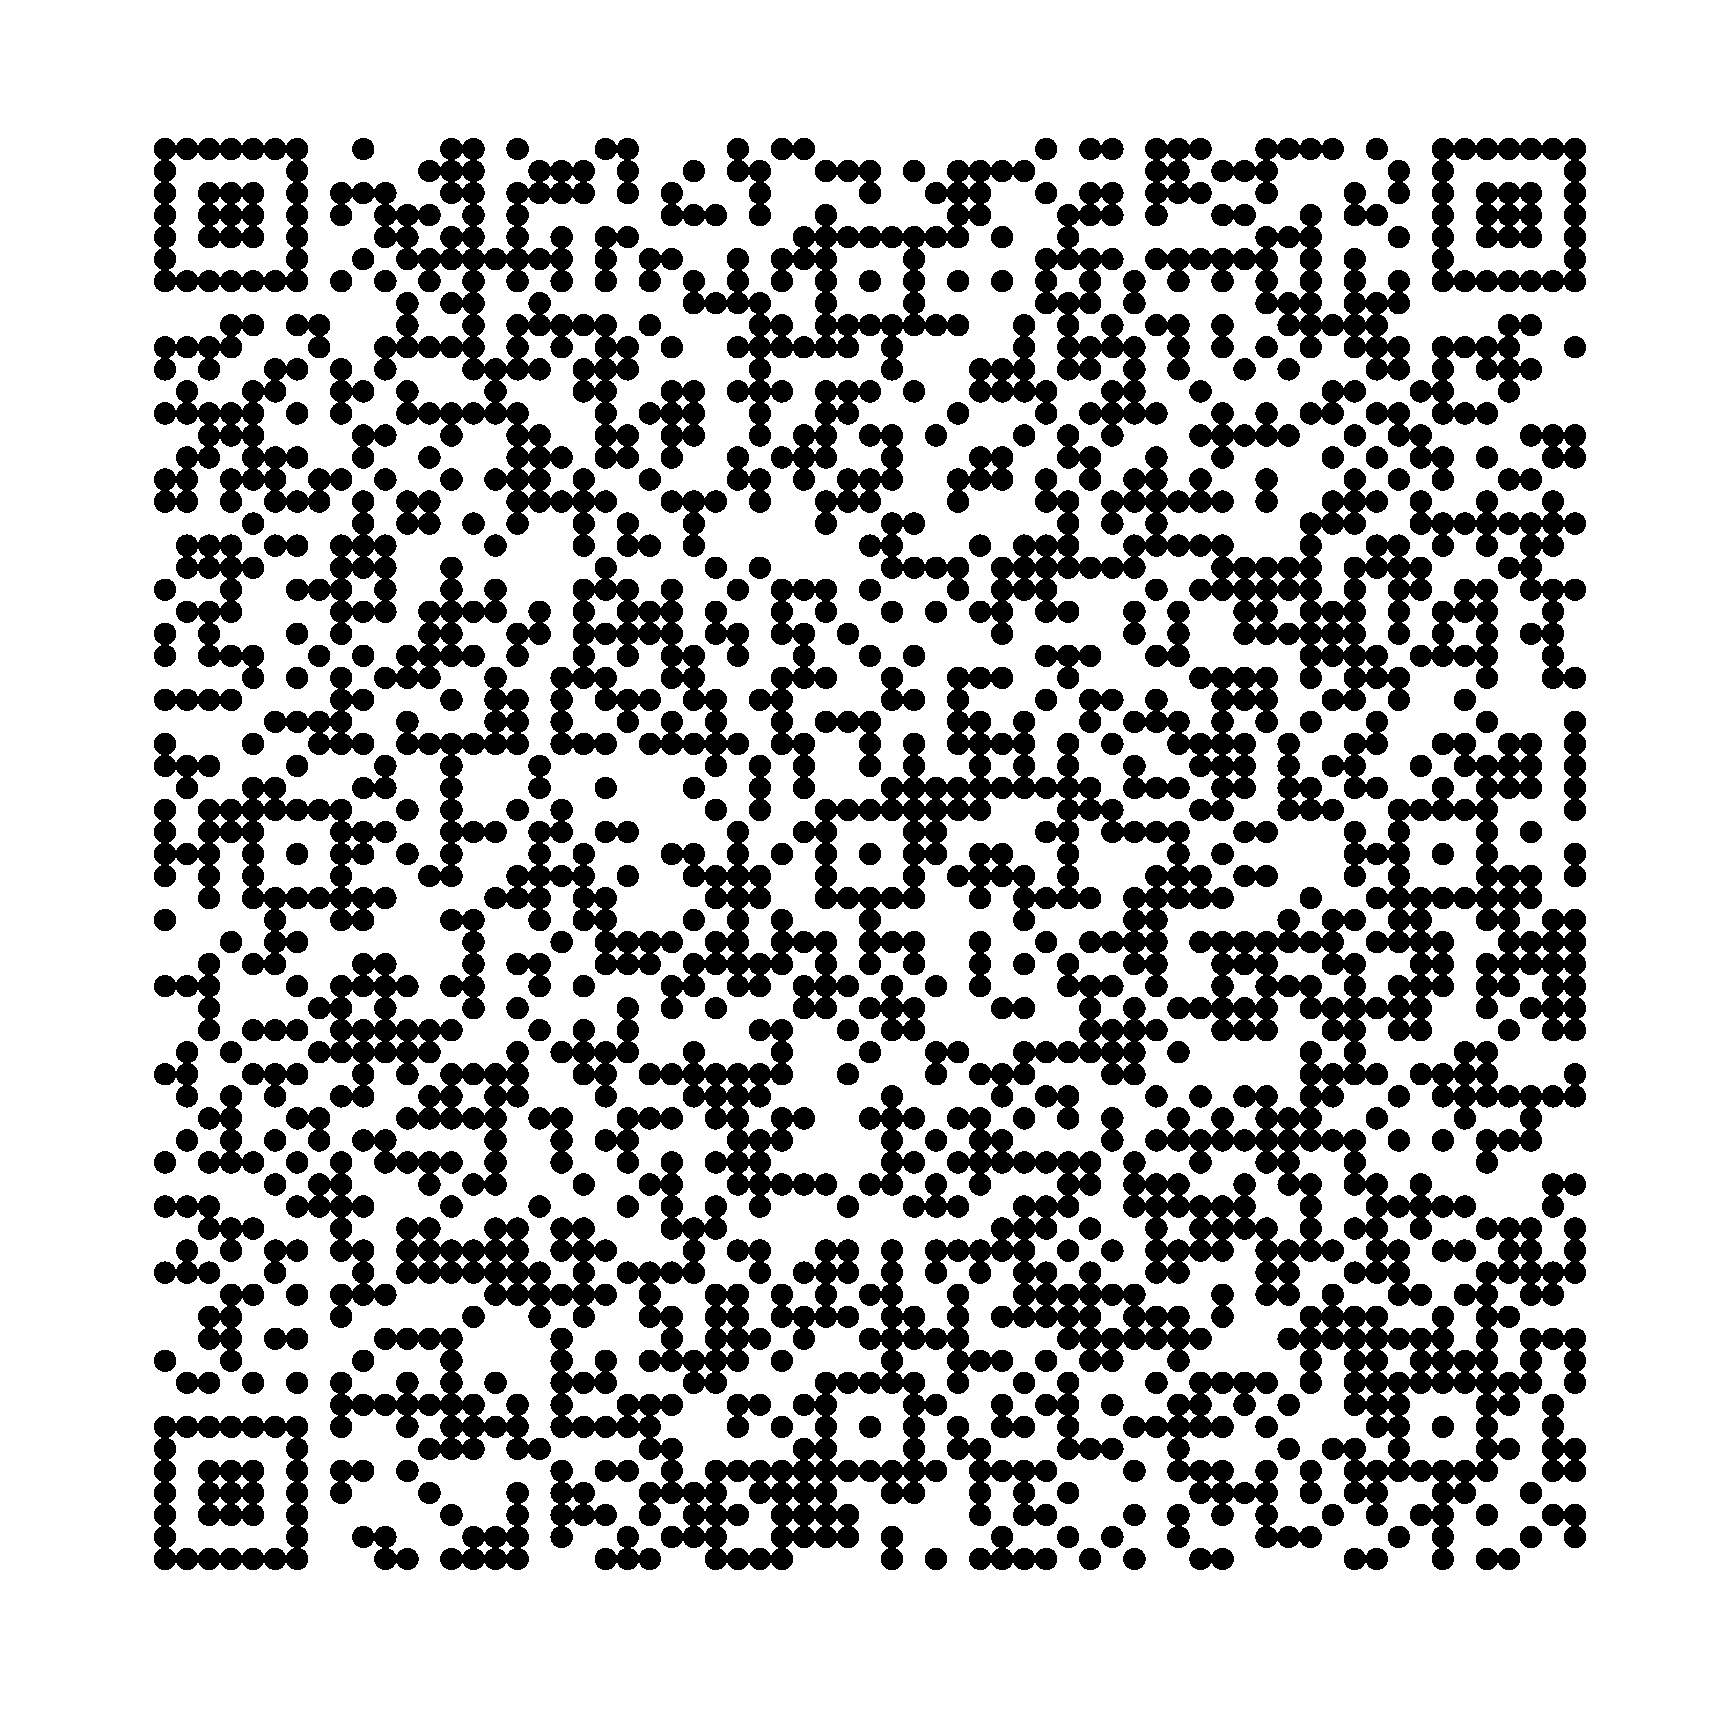
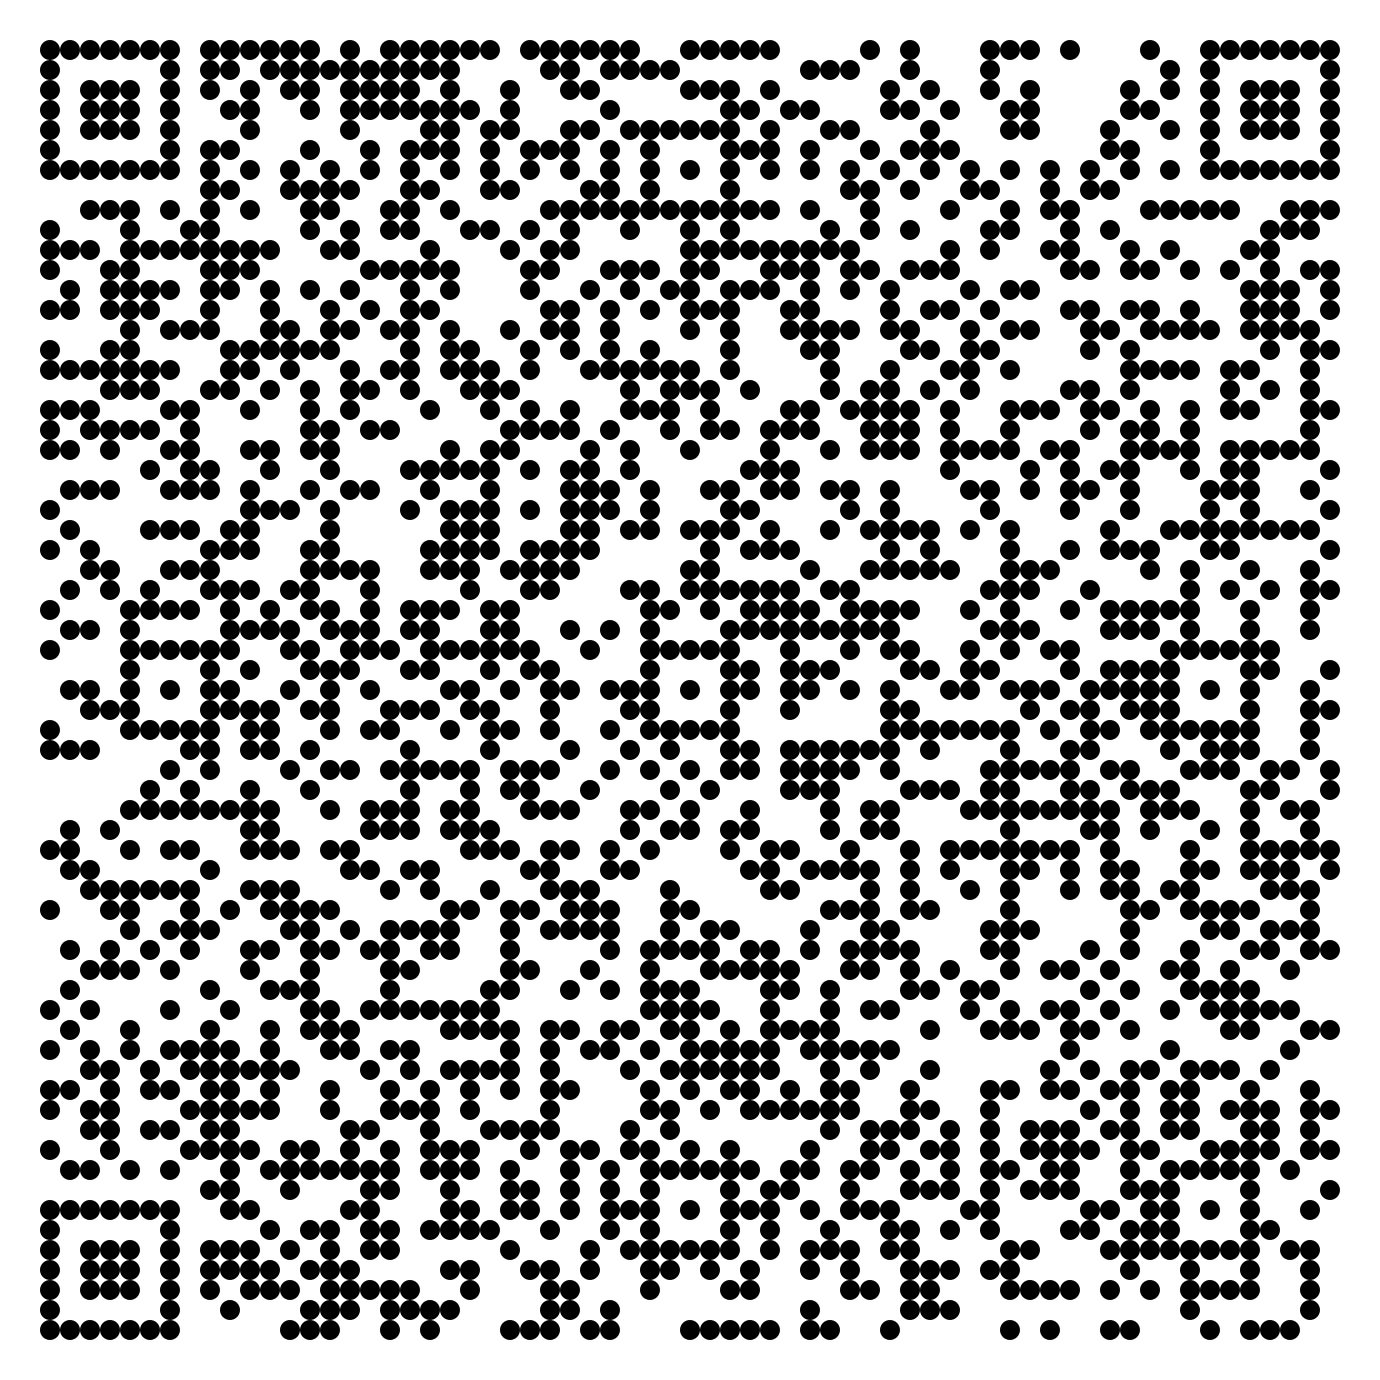
docs(contato): atualiza chave Pix e adiciona contato por email
Alinha textos, QR e PIX_KEY a chave samuel.santos.geo@gmail.com e adiciona samuel.santos.engdev@gmail.com como alternativa as Issues no README e no FAQ do site.

diff --git a/site/index.html b/site/index.html
@@ -675,7 +675,7 @@
             <svg class="aipim-icon aipim-accordion__chevron" aria-hidden="true"><use href="vendor/aipim/sprite.svg#aipim-chevron-down"></use></svg>
           </summary>
           <div class="aipim-accordion__panel">
-            <p>Abra uma <a class="aipim-link" href="https://github.com/samuel-c-santos/portica-app/issues" target="_blank" rel="noopener noreferrer">Issue no repositório do Pórtica App</a> informando a versão do app, os dados de entrada, a saída obtida, o valor esperado e o item correspondente da ABNT NBR 6118:2023. Para relatos privados de segurança ou falhas críticas, utilize a aba <a class="aipim-link" href="https://github.com/samuel-c-santos/portica-app/security" target="_blank" rel="noopener noreferrer">Security do projeto</a> conforme o roteiro detalhado em <a class="aipim-link" href="https://github.com/samuel-c-santos/portica-app/blob/public-main/SECURITY.md" target="_blank" rel="noopener noreferrer">SECURITY.md</a>.</p>
+            <p>Abra uma <a class="aipim-link" href="https://github.com/samuel-c-santos/portica-app/issues" target="_blank" rel="noopener noreferrer">Issue no repositório do Pórtica App</a> informando a versão do app, os dados de entrada, a saída obtida, o valor esperado e o item correspondente da ABNT NBR 6118:2023. Se preferir, envie a mesma descrição por email para <a class="aipim-link" href="mailto:samuel.santos.engdev@gmail.com">samuel.santos.engdev@gmail.com</a>. Para relatos privados de segurança ou falhas críticas, utilize a aba <a class="aipim-link" href="https://github.com/samuel-c-santos/portica-app/security" target="_blank" rel="noopener noreferrer">Security do projeto</a> conforme o roteiro detalhado em <a class="aipim-link" href="https://github.com/samuel-c-santos/portica-app/blob/public-main/SECURITY.md" target="_blank" rel="noopener noreferrer">SECURITY.md</a>.</p>
           </div>
         </details>
       </div>
@@ -693,7 +693,7 @@
           <div>
             <p>Dois jeitos de contribuir, ambos sem cadastro e sem CNPJ:</p>
             <ul style="margin-top: var(--aipim-space-8);">
-              <li><strong>Pix</strong>: escaneie o QR ao lado ou copie a chave Pix (e-mail): <code>samuelsantosambiental@gmail.com</code></li>
+              <li><strong>Pix</strong>: escaneie o QR ao lado ou copie a chave Pix (e-mail): <code>samuel.santos.geo@gmail.com</code></li>
               <li><strong>Ko-fi</strong>: doação pontual ou recorrente pela plataforma.</li>
             </ul>
             <div class="hero__cta">
@@ -708,9 +708,9 @@
             </div>
           </div>
           <div>
-            <img class="qr" src="img/qr-pix.png" alt="QR Code Pix para doação" width="1724" height="1724">
+            <img class="qr" src="img/qr-pix.png" alt="QR Code Pix para doação" width="1380" height="1380">
             <p style="margin-top: var(--aipim-space-8); color: var(--aipim-text-secondary); font-size: var(--aipim-text-body-sm-size);">
-              Chave Pix (e-mail): <code>samuelsantosambiental@gmail.com</code>
+              Chave Pix (e-mail): <code>samuel.santos.geo@gmail.com</code>
             </p>
           </div>
         </div>

diff --git a/ui/sobre.py b/ui/sobre.py
@@ -37,7 +37,7 @@ RELEASES_LATEST_URL = "https://github.com/samuel-c-santos/portica-app/releases/l
 RELEASES_API_LATEST_URL = "https://api.github.com/repos/samuel-c-santos/portica-app/releases/latest"
 DOI_URL = "https://doi.org/10.5281/zenodo.23733497"
 KOFI_URL = "https://ko-fi.com/samuelsantosportica"
-PIX_KEY = "samuelsantosambiental@gmail.com"
+PIX_KEY = "samuel.santos.geo@gmail.com"
 
 
 def _parse_semver(versao: str) -> tuple[int, int, int] | None:

diff --git a/README.md b/README.md
@@ -224,6 +224,7 @@ O histórico de versões está em [`docs/CHANGELOG.md`](docs/CHANGELOG.md).
 ## Contato e suporte
 
 - Dúvidas, correções e Issues: <https://github.com/samuel-c-santos/portica-app/issues>
+- Alternativa por email: <samuel.santos.engdev@gmail.com>
 - Perfil do autor e contato: <https://github.com/samuel-c-santos>
 - Doação (opcional, sem paywall e sem feature bloqueada): veja a seção **Doar** da [página pública](https://samuel-c-santos.github.io/portica-app/): Pix ou Ko-fi.
 
